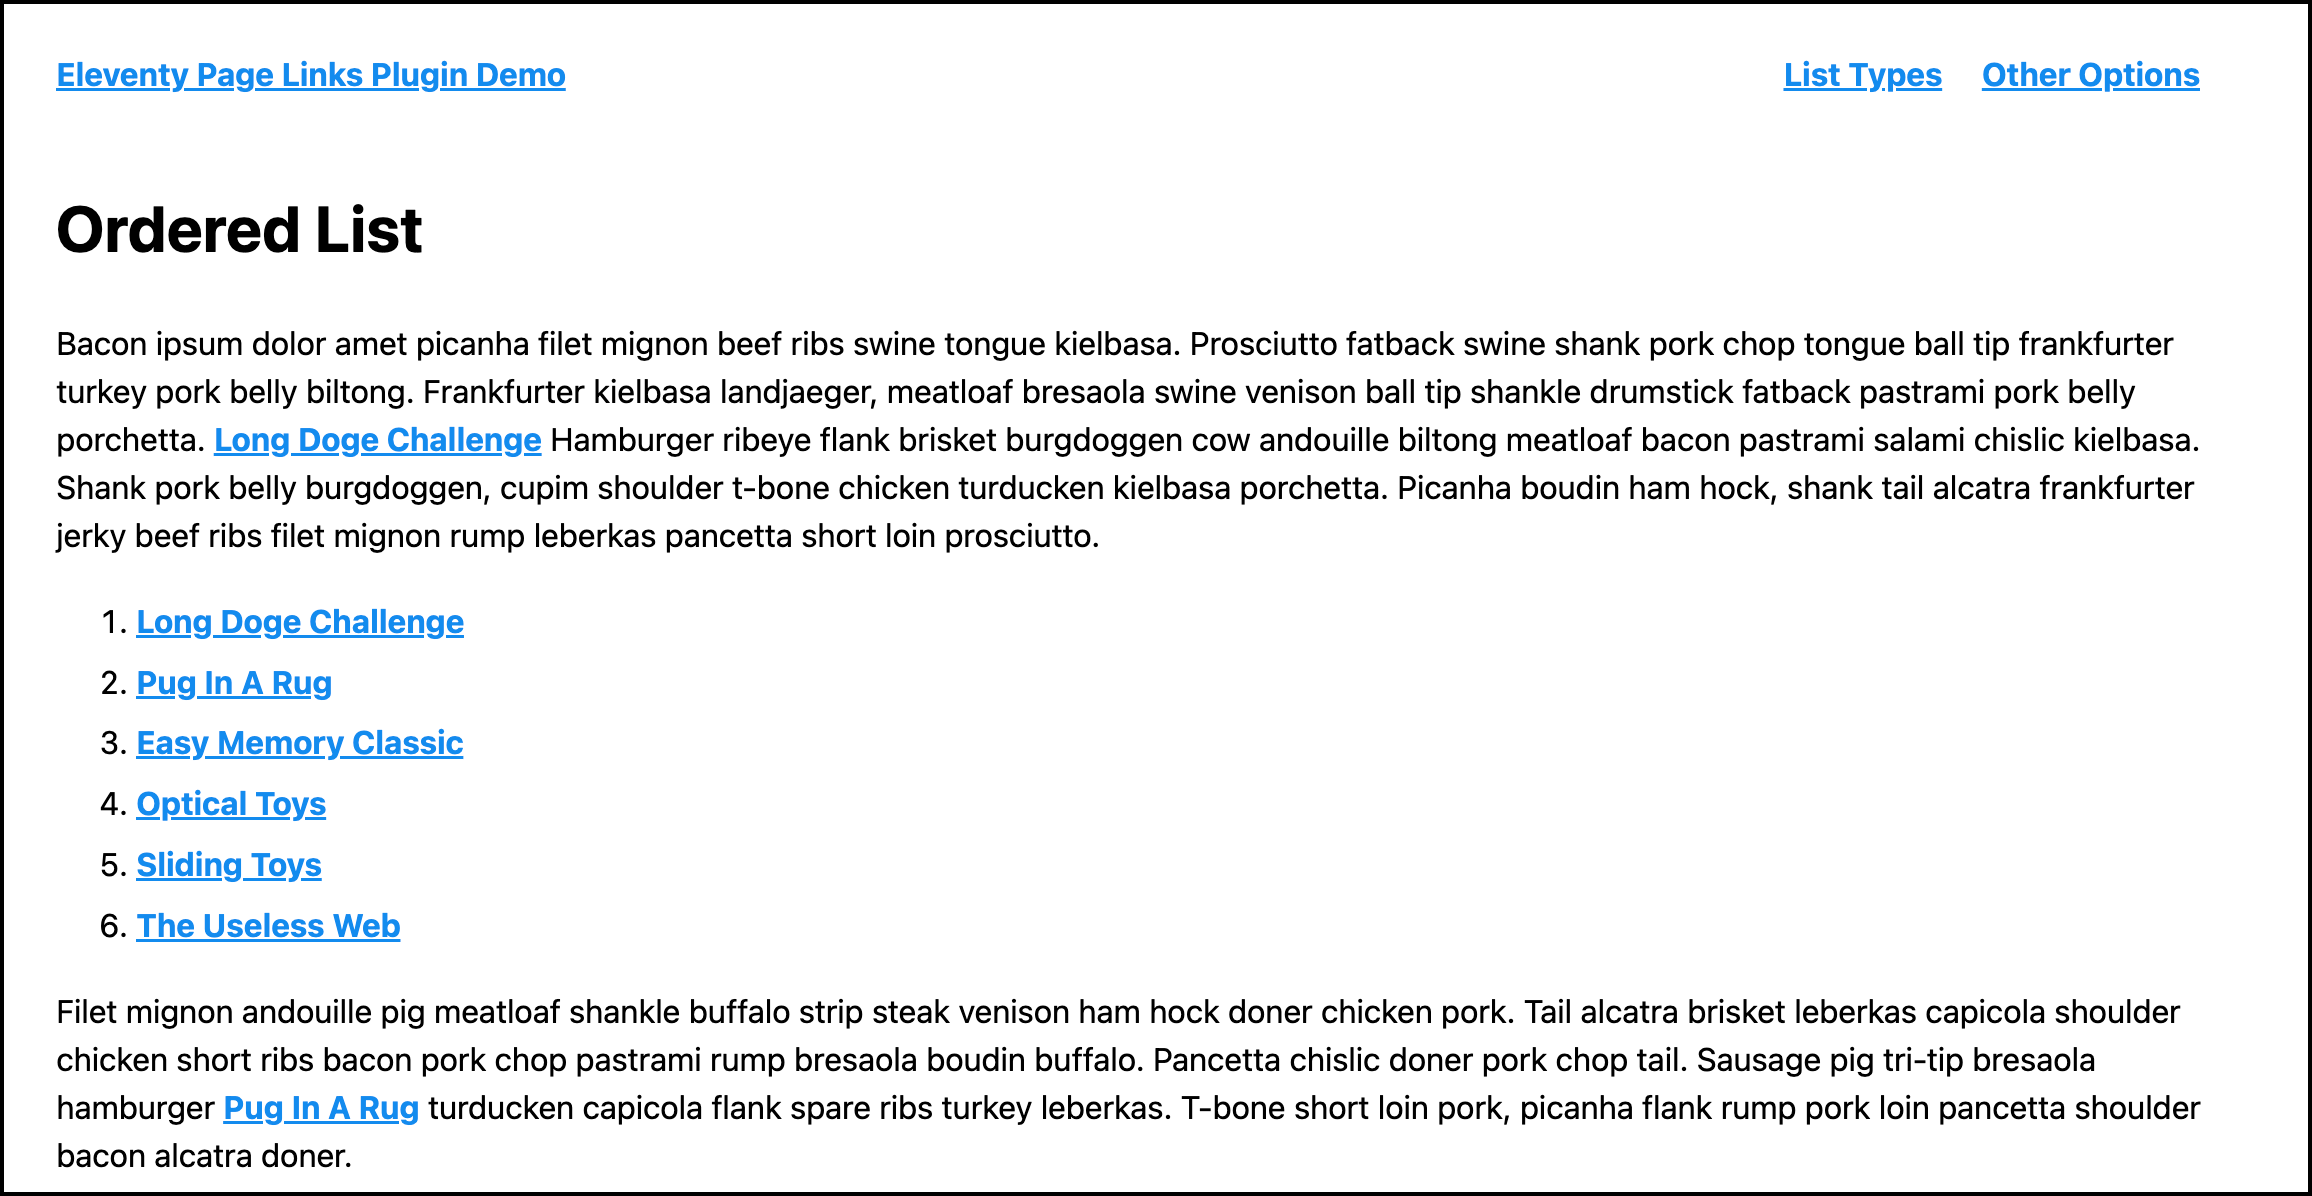
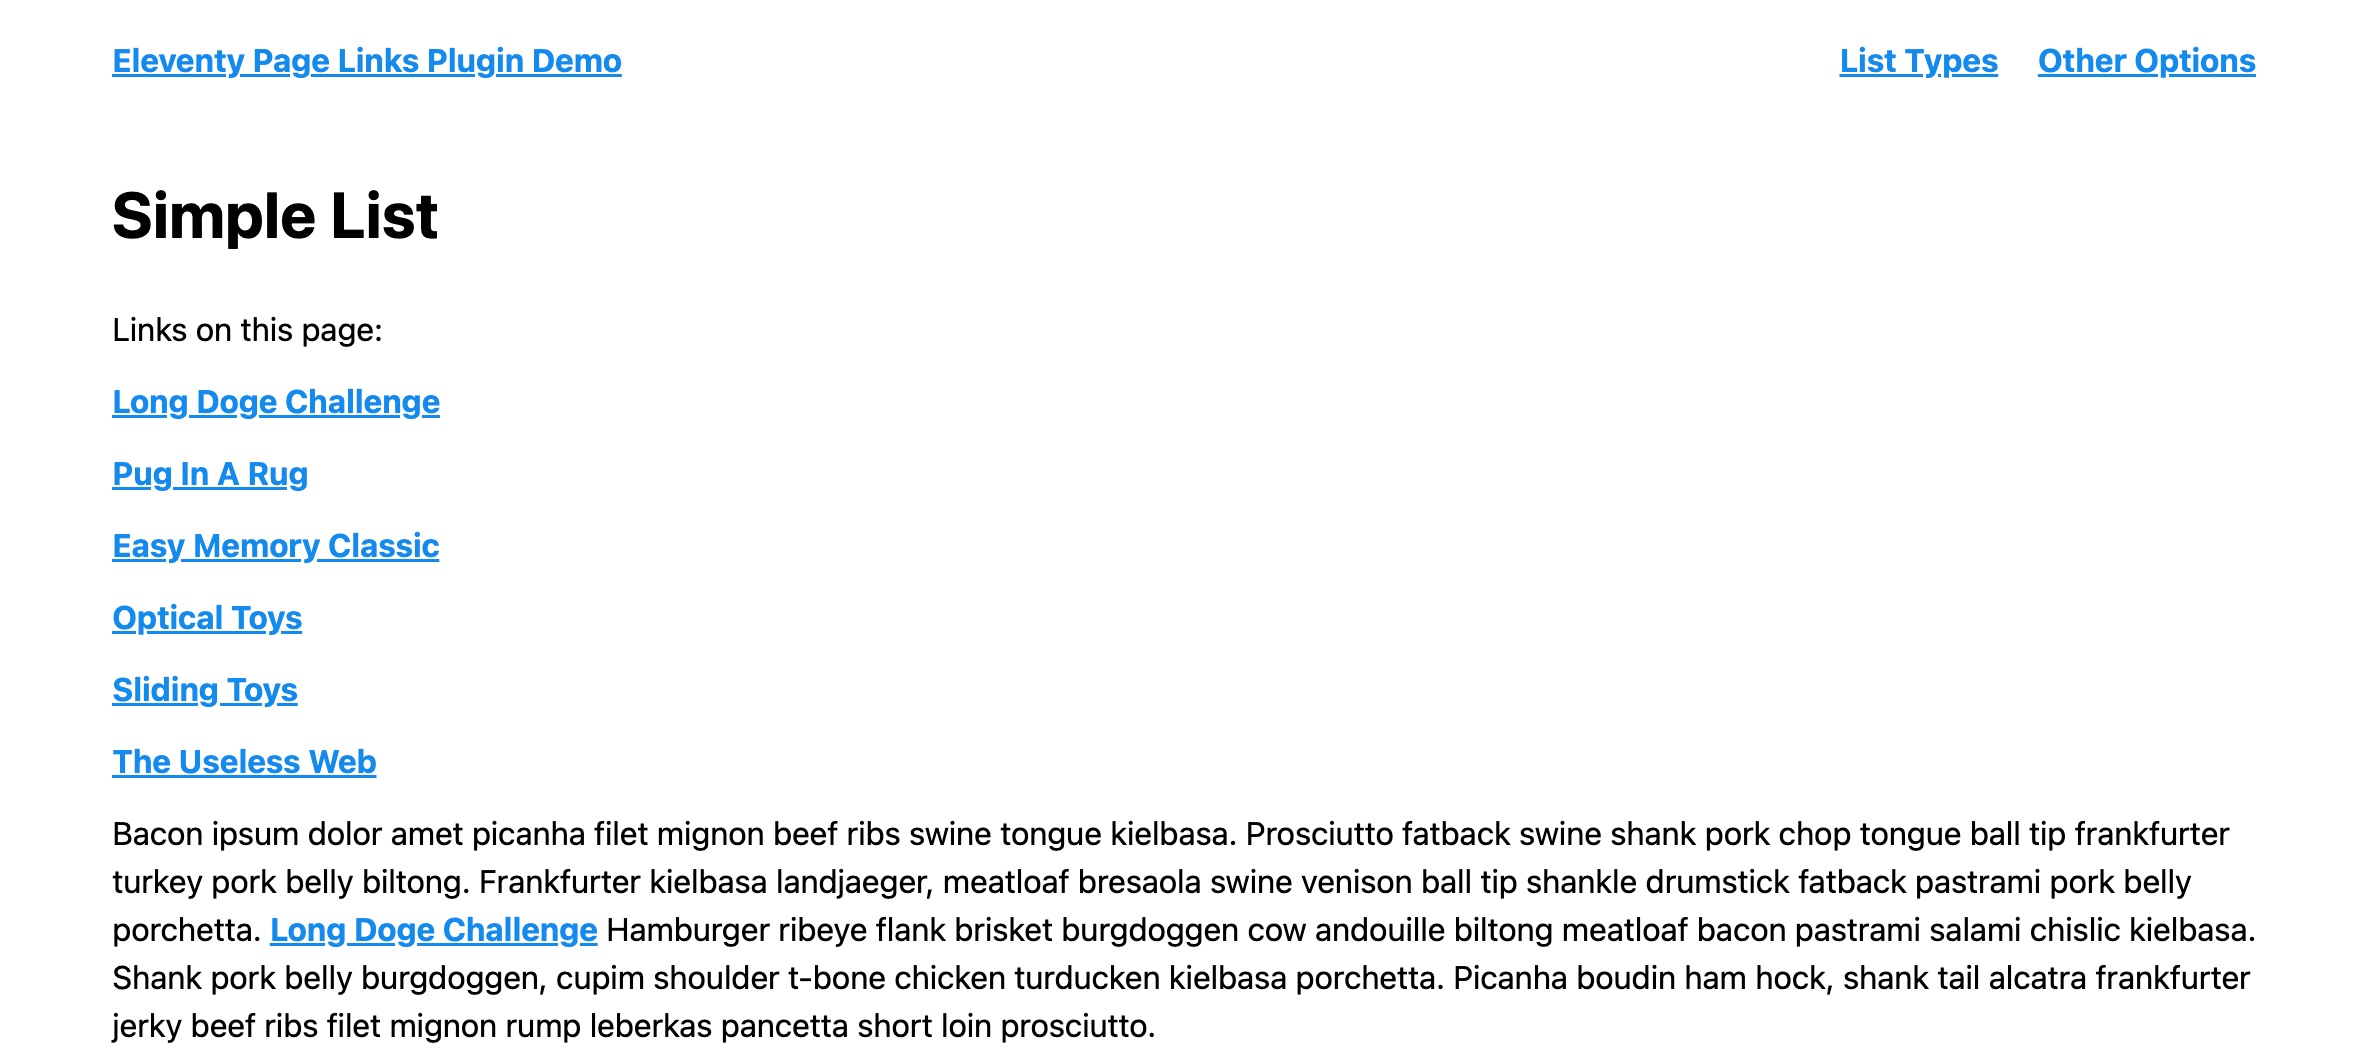
working on readme

diff --git a/readme.md b/readme.md
@@ -78,21 +78,43 @@ List Options:
 + **Styled List** - Allows you to apply a CSS class to the list container on the page.
 + **Minimum Links** - Only generate the link list when there's at least a specified number of links on the page.
 
-This repo includes a [sample app](https://mdpagelinks.netlify.app/) (hosted for free on [Netlify](https://www.netlify.com/)) that demonstrates all of these options. Check it out to learn more.
+This repo includes a [sample app](https://mdpagelinks.netlify.app/) (hosted for free on [Netlify](https://www.netlify.com/)) that demonstrates all of these options; check it out to learn more.
 
 ## Operation
 
-Here's an example from the [sample app](https://mdpagelinks.netlify.app/) included with the plugin's source code:
+Add the shortcode `pageLinks` to a page or page template to generate a list of the page's links in that location.
+
+``` markdown
+Links on this page:
+
+{% pageLinks %}
+
+Bacon ipsum dolor amet picanha filet mignon beef ribs swine tongue kielbasa.  Prosciutto fatback swine shank pork chop tongue ball tip frankfurter turkey pork belly biltong.  Frankfurter kielbasa landjaeger, meatloaf bresaola swine venison ball tip shankle drumstick fatback pastrami pork belly porchetta.  [Long Doge Challenge](https://longdogechallenge.com/) Hamburger ribeye flank brisket burgdoggen cow andouille biltong meatloaf bacon pastrami salami chislic kielbasa.  Shank pork belly burgdoggen, cupim shoulder t-bone chicken turducken kielbasa porchetta.  Picanha boudin ham hock, shank tail alcatra frankfurter jerky beef ribs filet mignon rump leberkas pancetta short loin prosciutto.
+```
+
+This generates the following content on the page:
 
 ![Sample links list](/images/image-01.png)
 
-You can also set global options for the shortcut when you load the plugin in your project's `eleventy.config.js` file. Simply add any supported configuration variable in an object to the `addPlugin` method invocation. 
+Specify a different list type (such as unordered list: 2) by specifying the list type as a parameter to the shortcode:
+
+``` markdown
+Links on this page:
+
+{% pageLinks 2 %}
+
+Bacon ipsum dolor amet picanha filet mignon beef ribs swine tongue kielbasa. Prosciutto fatback swine shank pork chop tongue ball tip frankfurter turkey pork belly biltong. Frankfurter kielbasa landjaeger, meatloaf bresaola swine venison ball tip shankle drumstick fatback pastrami pork belly porchetta. [Long Doge Challenge](https://longdogechallenge.com/) Hamburger ribeye flank brisket burgdoggen cow andouille biltong meatloaf bacon pastrami salami chislic kielbasa. Shank pork belly burgdoggen, cupim shoulder t-bone chicken turducken kielbasa porchetta. Picanha boudin ham hock, shank tail alcatra frankfurter jerky beef ribs filet mignon rump leberkas pancetta short loin prosciutto.
+```
+
+This generates the unordered list shown below:
+
+![Sample links list](/images/image-02.png)
+
+You can also set global options for the shortcut when you load the plugin in your project's `eleventy.config.js` file. Simply add any supported configuration variable in an object to the `addPlugin` method invocation. This following example configures the plugin to open all links in a new browser tab/window/.
 
 ```ts
 eleventyConfig.addPlugin(pageLinks, { openInNewTab: true });
 ```
-
-This example configured the plugin to open all links in a new browser tab/window/.
 
 ### Configuration Options
 
